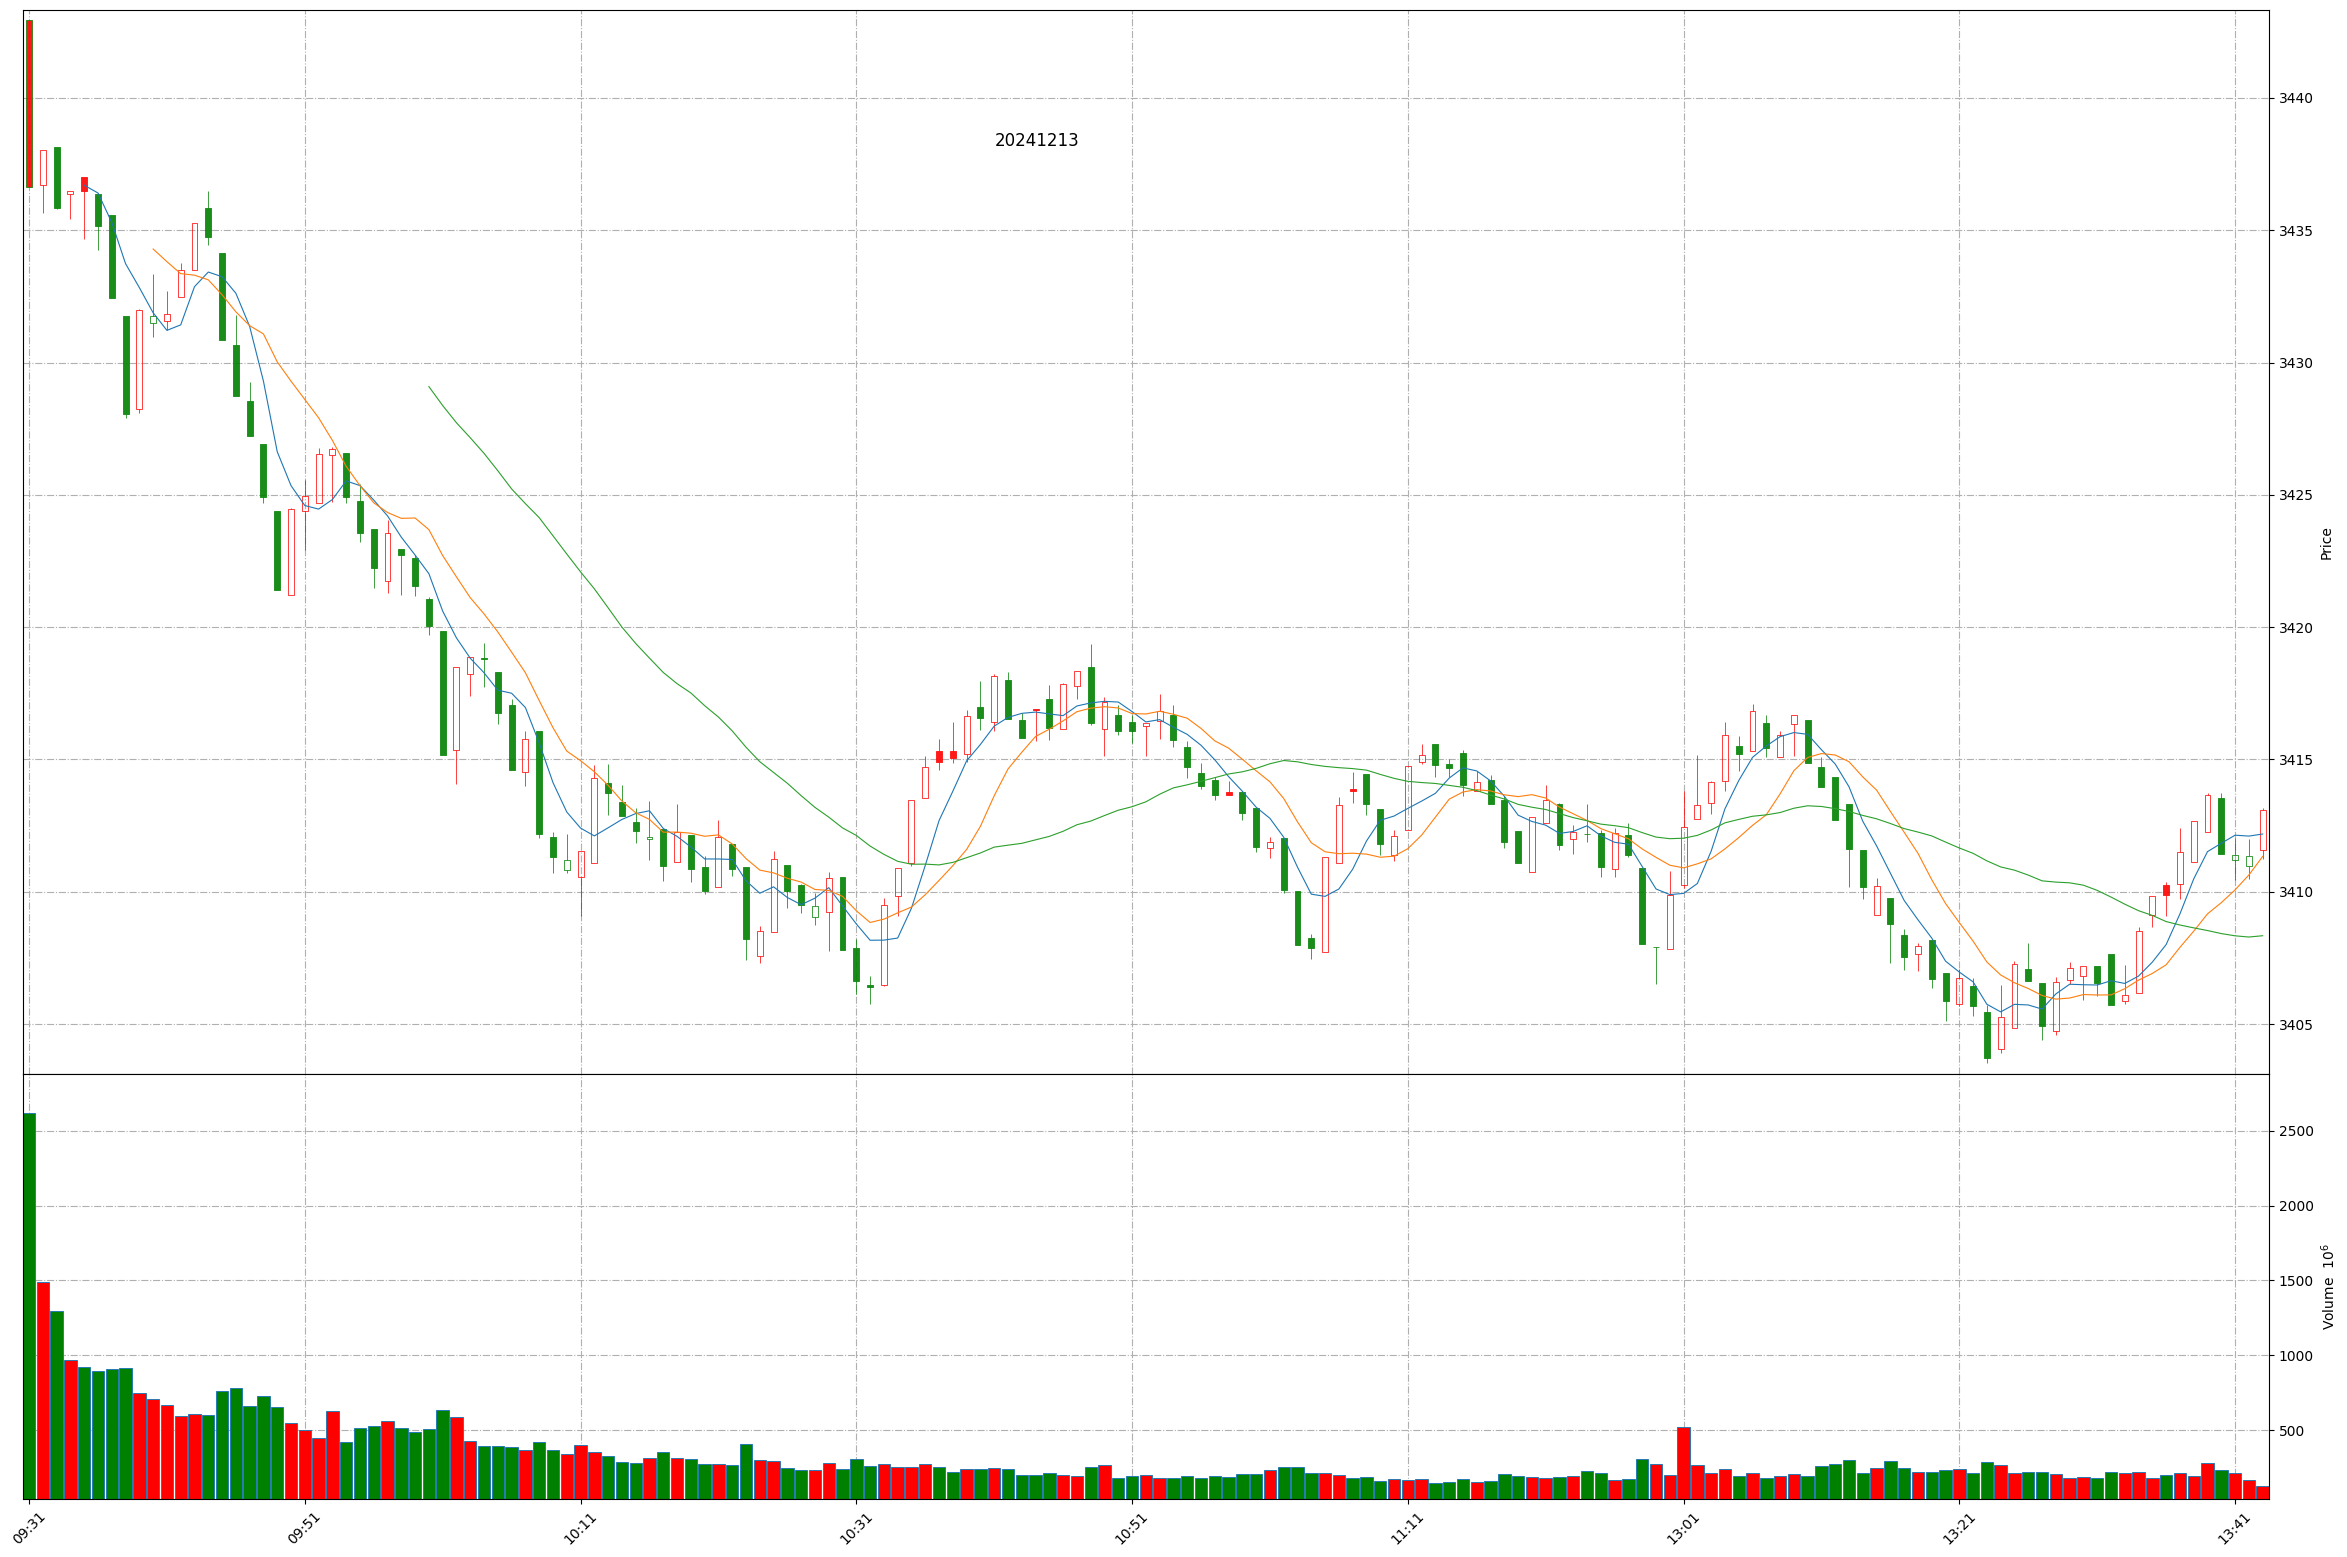
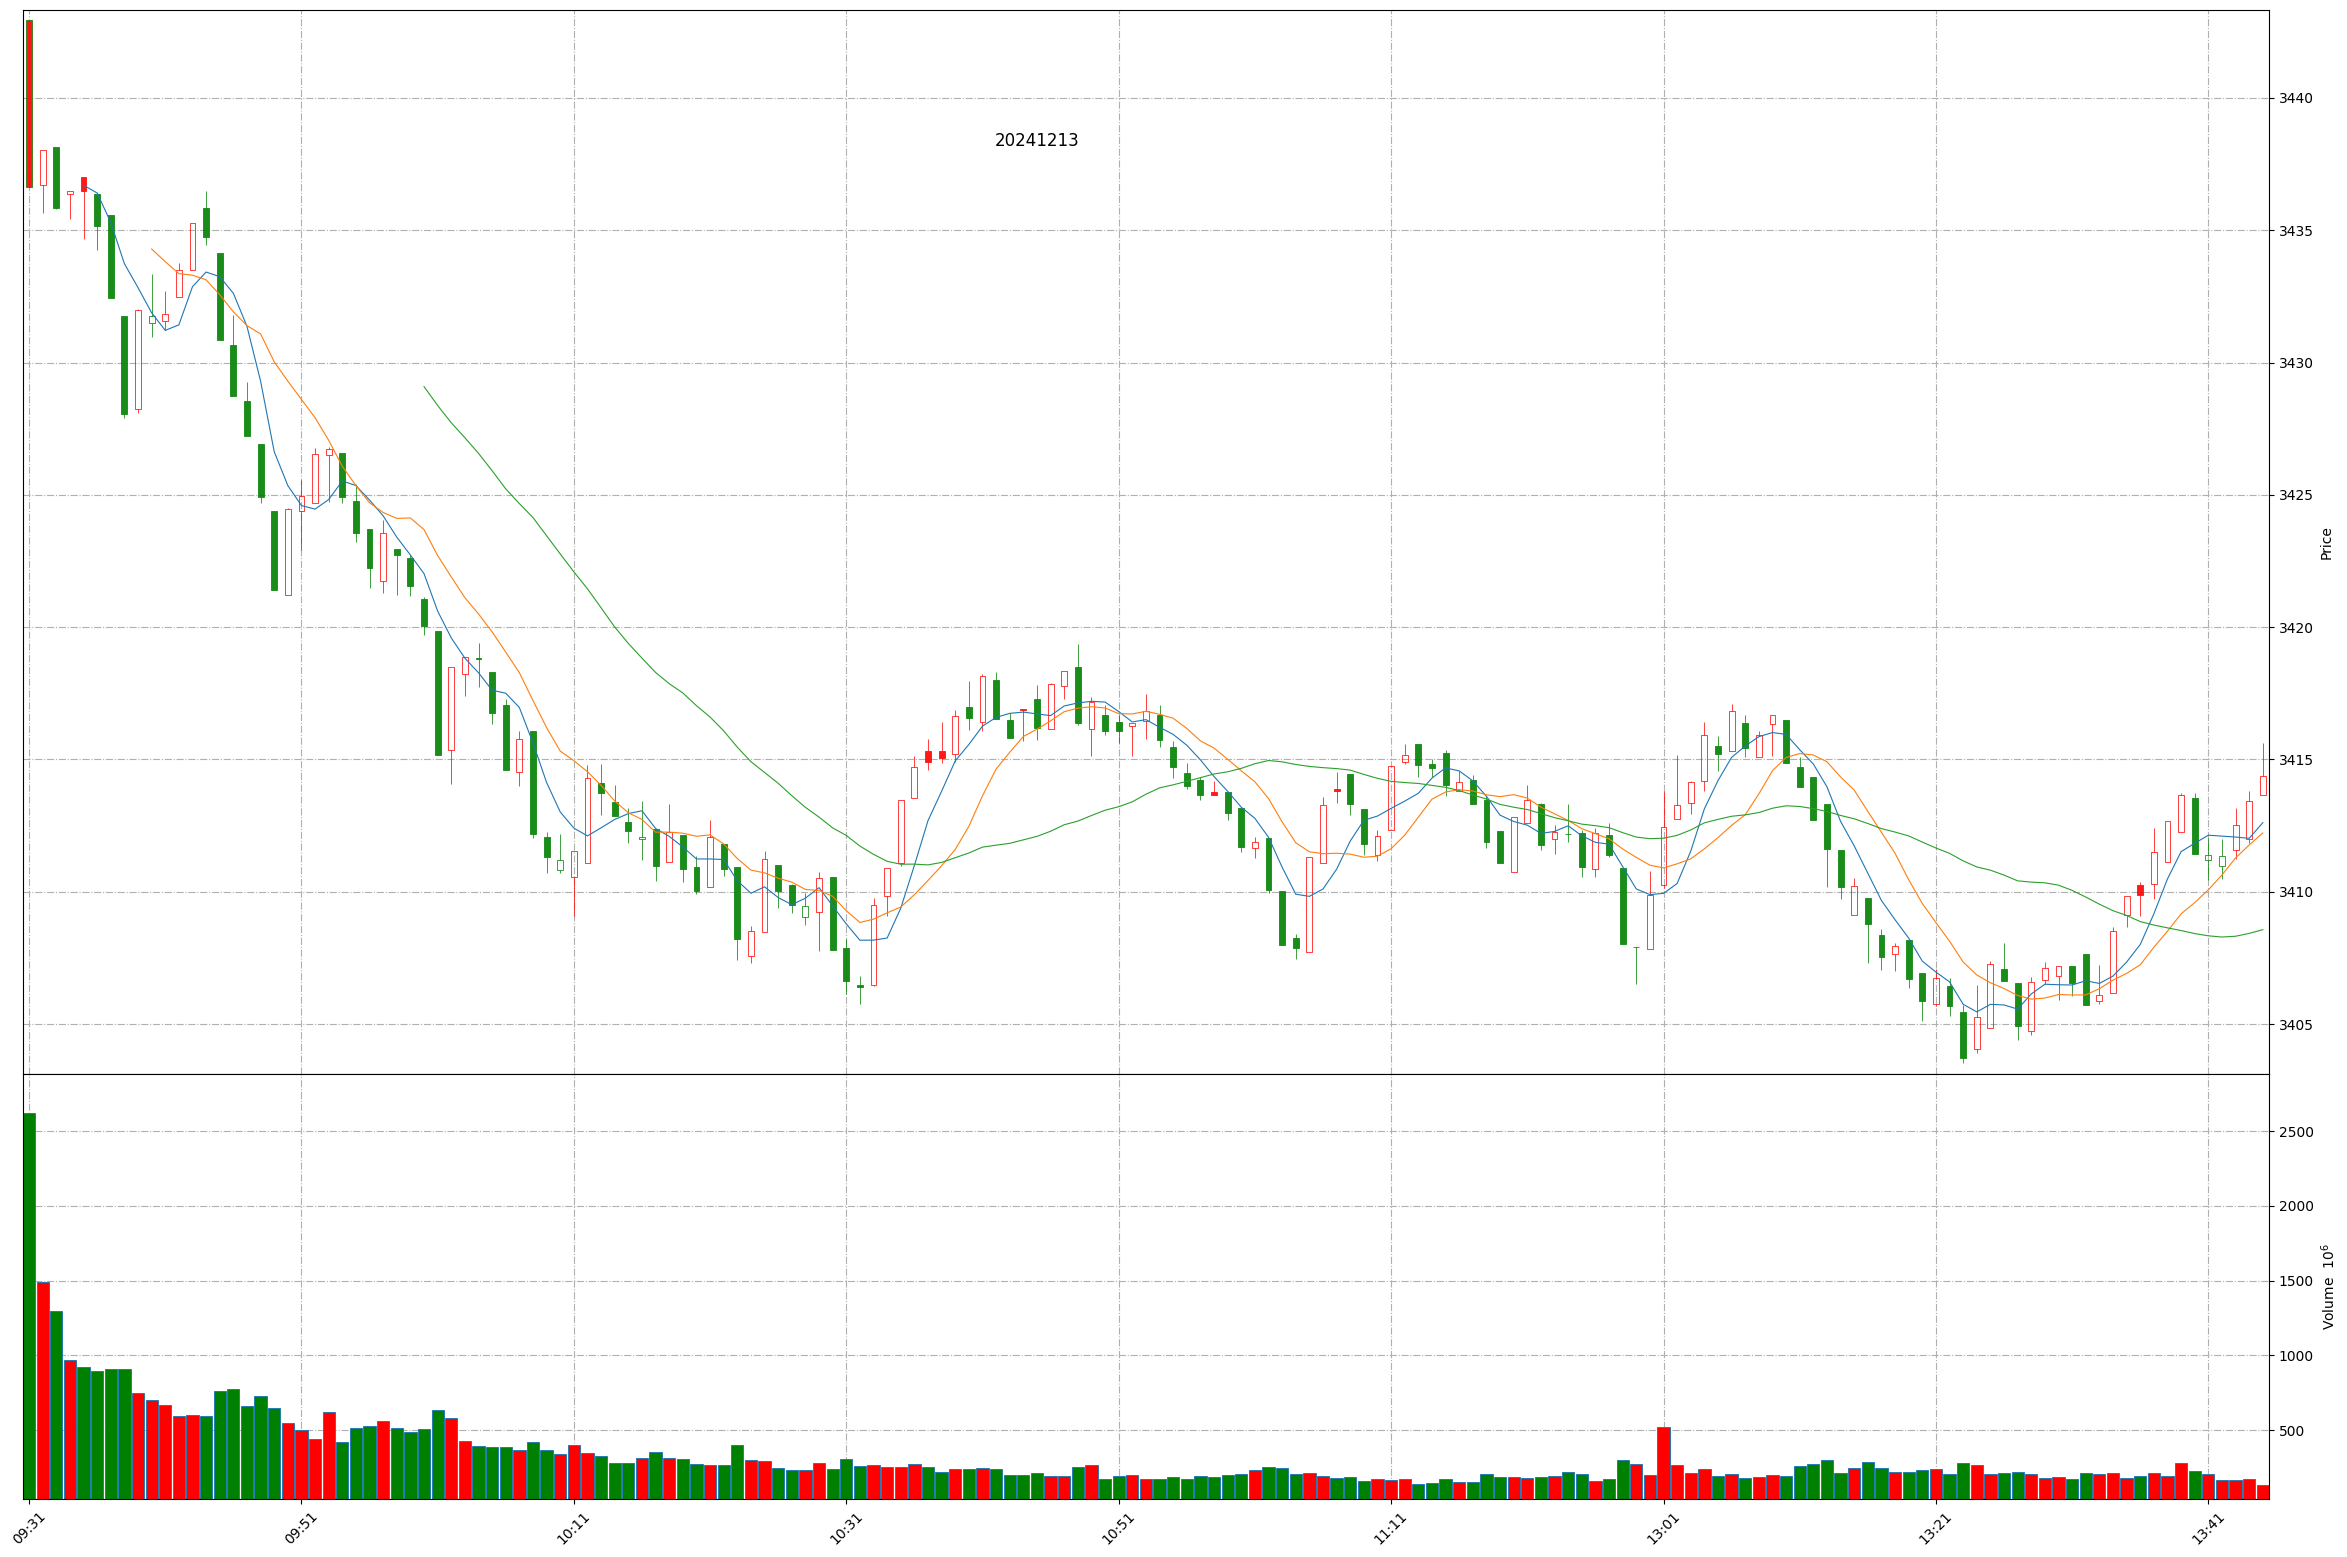
Github action update at 2024-12-13 13:45:09.

diff --git a/README.md b/README.md
@@ -1,11 +1,11 @@
 
 # Daily-A-share-market-quotes 每日 A 股指数（5min 更新）- 20241213
 
-### 上证指数 20241213 13:43
+### 上证指数 20241213 13:45
 ![](./fig/2024/12/20241213-sh000001.png)
 
-### 深证成指 20241213 13:43
+### 深证成指 20241213 13:45
 ![](./fig/2024/12/20241213-sz399001.png)
 
-### 北证50 20241213 13:43
+### 北证50 20241213 13:45
 ![](./fig/2024/12/20241213-bj899050.png)
